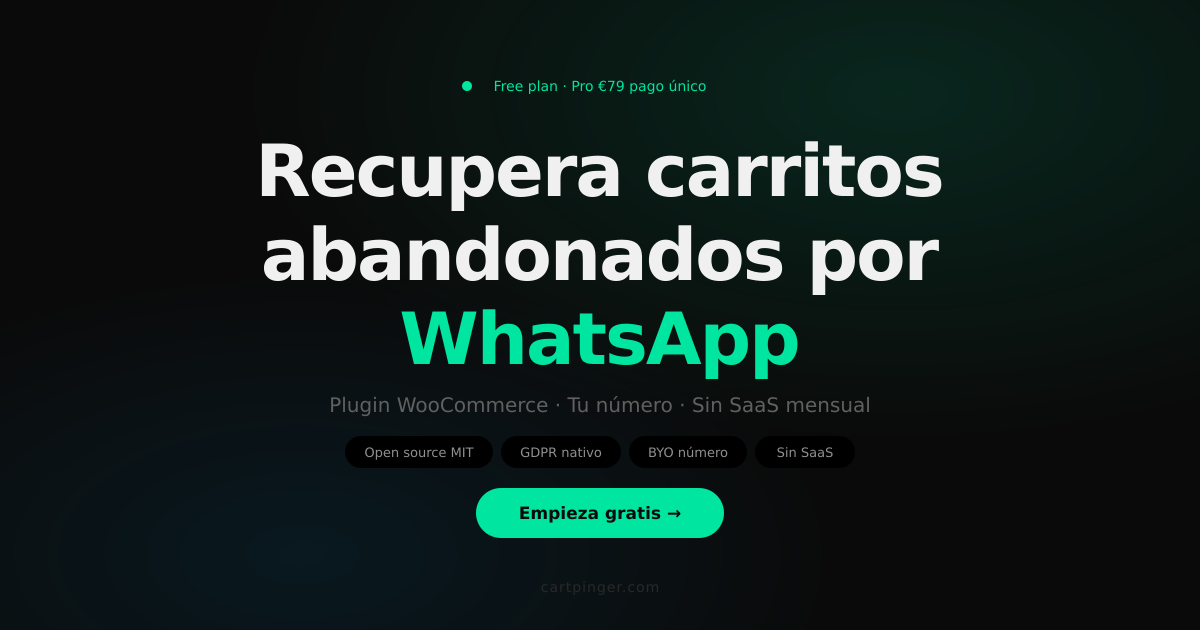
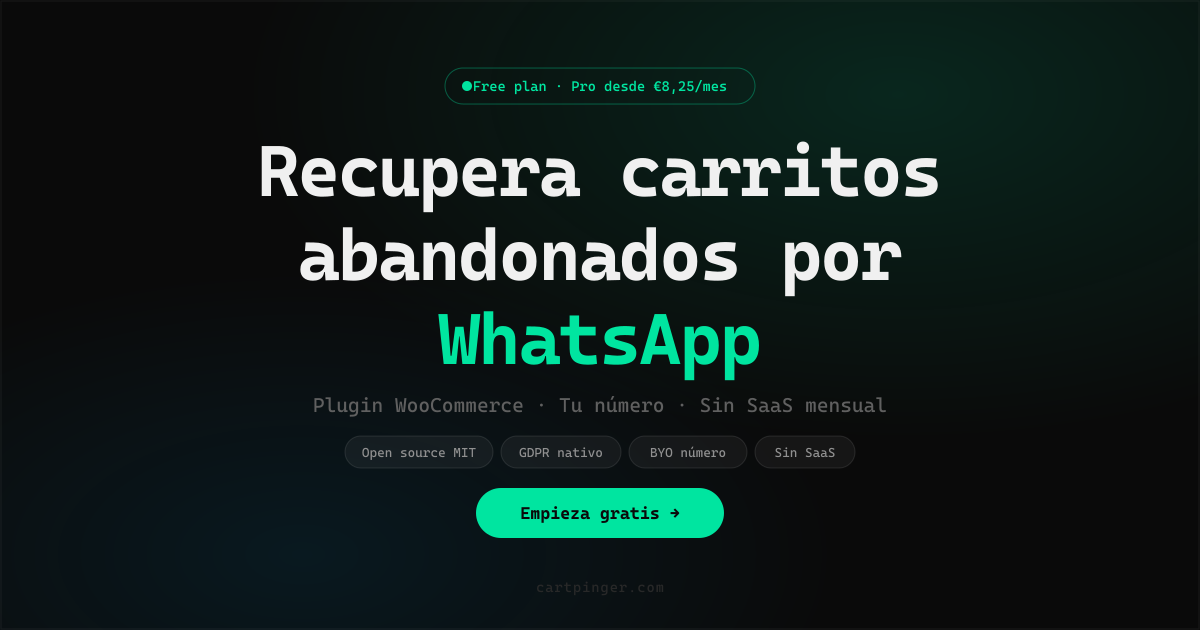
Switch pricing to hybrid subscription model
- Free: 50 recoveries/month, forever
- Pro: €14/month or €99/year (~€8.25/mo annual), no lock-in
- Update all references across JSX components, HTML templates, JSON-LD, terms, OG image
- Terms section 5 rewritten for subscription cancellation + 14-day refund

diff --git a/components-bottom.en.jsx b/components-bottom.en.jsx
@@ -5,7 +5,7 @@ const Icon3 = window.WCTop?.Icon;
 /* ---------------- Comparison ---------------- */
 const CMP_ROWS = [
   { f: "Price",
-    wc: { v: "Free · Pro €79", tip: "Free forever up to 50 recoveries/month. Pro €79 one-time: no limit + sequences, dynamic coupons, CSV, priority support." },
+    wc: { v: "Free · Pro from €8.25/mo", tip: "Free forever up to 50 recoveries/month. Pro €14/mo or €99/year (~€8.25/mo): no limit + sequences, dynamic coupons, CSV, priority support." },
     rt: { v: "$14/mo",  tip: "≈ €156/year recurring." },
     ai: { v: "$25/mo",  tip: "≈ €280/year recurring, standard plan." },
     nf: { v: "Free",    tip: "Limited plan with Notiqoo branding in messages." },
@@ -151,7 +151,7 @@ function Pricing() {
       <div className="container">
         <div className="section-hed reveal">
           <h2 className="h2">Start free. Upgrade whenever you want.</h2>
-          <p className="lede">Free forever up to 50 recoveries/month. Pro €79 one-time: no limit + advanced sequences and automatic coupons.</p>
+          <p className="lede">Free forever up to 50 recoveries/month. Pro from €8.25/mo (annual) or €14/mo: no limit + advanced sequences and automatic coupons.</p>
         </div>
 
         <div className="pricing-grid reveal" data-delay="60">
@@ -193,8 +193,8 @@ function Pricing() {
               </span>
               <span className="chip chip-pro">Pro</span>
             </div>
-            <div className="price-num">€79</div>
-            <div className="price-sub">one-time · no renewal · no limit</div>
+            <div className="price-num">€99<span style={{fontSize:18,fontWeight:500,opacity:.7}}>/year</span></div>
+            <div className="price-sub">or €14/mo · no lock-in · no limit</div>
 
             <ul className="price-list">
               <li><Icon3.Check className="ch" width="16" height="16"/> Everything in Free</li>
@@ -202,13 +202,13 @@ function Pricing() {
               <li><Icon3.Check className="ch" width="16" height="16"/> Automatic dynamic coupons (10% · single-use · 48h validity)</li>
               <li><Icon3.Check className="ch" width="16" height="16"/> CSV export of all recoveries</li>
               <li><Icon3.Check className="ch" width="16" height="16"/> Priority email support</li>
-              <li><Icon3.Check className="ch" width="16" height="16"/> 1 year guaranteed updates</li>
+              <li><Icon3.Check className="ch" width="16" height="16"/> Updates included while subscription is active</li>
             </ul>
 
             <div style={{ marginTop: 8 }}>
               <WaitlistForm cta="Request Beta Pro Access"/>
               <p className="micro" style={{ marginTop: 10 }}>
-                Limited to the first 50 stores. One-time payment at launch — not before.
+                Limited to the first 50 stores. Price locked for early access.
               </p>
             </div>
           </div>
@@ -297,7 +297,7 @@ const FAQS = [
   { q: "How much does Meta charge per message?",
     a: "€0 to us per message. You pay Meta at their official pricing. In the US, an abandoned cart message (marketing category) costs approximately $0.025. The first 1,000 messages per month are free." },
   { q: "Is it really open source?",
-    a: "Yes, MIT License. The code is free and public from day 1 — you can download it, audit it, and use it without paying anything. The Pro plan (€79 one-time) is not for the code license — it removes the 50 recoveries/month limit and unlocks advanced features: multi-message sequences, dynamic coupons, CSV export, and priority support." },
+    a: "Yes, MIT License. The code is free and public from day 1 — you can download it, audit it, and use it without paying anything. The Pro plan (€14/mo or €99/year) is not for the code license — it removes the 50 recoveries/month limit and unlocks advanced features: multi-message sequences, dynamic coupons, CSV export, and priority support." },
   { q: "Does the plugin store customer data on its servers?",
     a: "No. CartPinger has no servers of its own. It runs entirely on your WordPress. Your customers' data (phone, cart, recovery token) is stored in your local MySQL database. We only provide the code." },
   { q: "Does it work with block-based checkout?",
@@ -336,13 +336,13 @@ function FinalCTA() {
     <section className="final" id="cta">
       <div className="container">
         <h2 className="h1 reveal">Start free. Upgrade whenever you want.</h2>
-        <p className="lede reveal" data-delay="100">Free forever up to 50 recoveries/month. Pro €79 one-time: no limit, sequences and automatic coupons. Available Q3 2026.</p>
+        <p className="lede reveal" data-delay="100">Free forever up to 50 recoveries/month. Pro €14/mo or €99/year: no limit, sequences and automatic coupons. Available Q3 2026.</p>
         <div className="reveal" data-delay="200" style={{ display: "flex", justifyContent: "center", marginTop: 14 }}>
           <WaitlistForm size="lg" cta="Join the Beta"/>
         </div>
         <div className="micro-row reveal" data-delay="400">
           <span><Icon3.Check className="tick" width="13" height="13" style={{ display: "inline", verticalAlign: -2 }}/> Free forever · no card</span>
-          <span><Icon3.Check className="tick" width="13" height="13" style={{ display: "inline", verticalAlign: -2 }}/> Pro €79 one-time · no SaaS</span>
+          <span><Icon3.Check className="tick" width="13" height="13" style={{ display: "inline", verticalAlign: -2 }}/> Pro €14/mo or €99/year · cancel anytime</span>
           <span><Icon3.Check className="tick" width="13" height="13" style={{ display: "inline", verticalAlign: -2 }}/> One email when it launches</span>
         </div>
       </div>
@@ -361,7 +361,7 @@ function Footer() {
               <span className="brand-mark"><Icon3.Whatsapp style={{ color: "#04220f" }}/></span>
               <span>CartPinger</span>
             </a>
-            <div>WooCommerce plugin for WhatsApp Cloud API. Recover abandoned carts. One-time payment, no SaaS.</div>
+            <div>WooCommerce plugin for WhatsApp Cloud API. Recover abandoned carts. Your own number, your own data.</div>
           </div>
           <div className="foot-col">
             <h5>Product</h5>

diff --git a/components-bottom.jsx b/components-bottom.jsx
@@ -5,7 +5,7 @@ const Icon3 = window.WCTop?.Icon;
 /* ---------------- Comparison ---------------- */
 const CMP_ROWS = [
   { f: "Precio",
-    wc: { v: "Gratis · Pro €79", tip: "Free para siempre hasta 50 recuperaciones/mes. Pro €79 pago único: sin límite + secuencias, cupones dinámicos, CSV y soporte prioritario." },
+    wc: { v: "Gratis · Pro desde €8,25/mes", tip: "Free para siempre hasta 50 recuperaciones/mes. Pro €14/mes o €99/año (~€8,25/mes): sin límite + secuencias, cupones dinámicos, CSV y soporte prioritario." },
     rt: { v: "$14/mes",  tip: "≈ €156/año recurrente." },
     ai: { v: "$25/mes",  tip: "≈ €280/año recurrente, plan estándar." },
     nf: { v: "Gratis",   tip: "Plan limitado con marca Notiqoo en mensajes." },
@@ -151,7 +151,7 @@ function Pricing() {
       <div className="container">
         <div className="section-hed reveal">
           <h2 className="h2">Empieza gratis. Actualiza cuando quieras.</h2>
-          <p className="lede">Free para siempre hasta 50 recuperaciones/mes. Pro €79 pago único: sin límite + secuencias avanzadas y cupones automáticos.</p>
+          <p className="lede">Free para siempre hasta 50 recuperaciones/mes. Pro desde €8,25/mes (anual) o €14/mes: sin límite + secuencias avanzadas y cupones automáticos.</p>
         </div>
 
         <div className="pricing-grid reveal" data-delay="60">
@@ -193,8 +193,8 @@ function Pricing() {
               </span>
               <span className="chip chip-pro">Pro</span>
             </div>
-            <div className="price-num">€79</div>
-            <div className="price-sub">pago único · sin renovación · sin límite</div>
+            <div className="price-num">€99<span style={{fontSize:18,fontWeight:500,opacity:.7}}>/año</span></div>
+            <div className="price-sub">o €14/mes · sin permanencia · sin límite</div>
 
             <ul className="price-list">
               <li><Icon3.Check className="ch" width="16" height="16"/> Todo lo de Free</li>
@@ -202,13 +202,13 @@ function Pricing() {
               <li><Icon3.Check className="ch" width="16" height="16"/> Cupones dinámicos automáticos (10% · 1 uso · 48h validez)</li>
               <li><Icon3.Check className="ch" width="16" height="16"/> Exportación CSV de todas las recuperaciones</li>
               <li><Icon3.Check className="ch" width="16" height="16"/> Soporte prioritario por email</li>
-              <li><Icon3.Check className="ch" width="16" height="16"/> Updates garantizados 1 año</li>
+              <li><Icon3.Check className="ch" width="16" height="16"/> Updates incluidos mientras esté activa</li>
             </ul>
 
             <div style={{ marginTop: 8 }}>
               <WaitlistForm cta="Solicitar acceso Beta Pro"/>
               <p className="micro" style={{ marginTop: 10 }}>
-                Plazas limitadas a las primeras 50 tiendas. Pago único al lanzar — no antes.
+                Plazas limitadas a las primeras 50 tiendas. Precio congelado para early access.
               </p>
             </div>
           </div>
@@ -297,7 +297,7 @@ const FAQS = [
   { q: "¿Cuánto pago a Meta por mensaje?",
     a: "0€ a nosotros por mensajes. A Meta pagas según su pricing oficial. En España, un mensaje de carrito abandonado (categoría marketing) cuesta aproximadamente €0,08. Los primeros 1.000 mensajes al mes son gratis." },
   { q: "¿Es open source de verdad?",
-    a: "Sí, MIT License. El código es libre y público desde día 1 — puedes descargarlo, auditarlo y usarlo sin pagar nada. El plan Pro (€79 pago único) no es por la licencia del código, sino por quitar el límite mensual de 50 recuperaciones y añadir funciones avanzadas: secuencia multi-mensaje, cupones dinámicos, CSV y soporte prioritario." },
+    a: "Sí, MIT License. El código es libre y público desde día 1 — puedes descargarlo, auditarlo y usarlo sin pagar nada. El plan Pro (€14/mes o €99/año) no es por la licencia del código, sino por quitar el límite mensual de 50 recuperaciones y añadir funciones avanzadas: secuencia multi-mensaje, cupones dinámicos, CSV y soporte prioritario." },
   { q: "¿El plugin almacena datos de clientes en sus servidores?",
     a: "No. CartPinger no tiene servidores propios. Corre íntegramente en tu WordPress. Los datos de tus clientes (teléfono, carrito, token de recuperación) se almacenan en tu base de datos MySQL local. Nosotros solo proveemos el código." },
   { q: "¿Funciona con block-based checkout?",
@@ -336,13 +336,13 @@ function FinalCTA() {
     <section className="final" id="cta">
       <div className="container">
         <h2 className="h1 reveal">Empieza gratis. Actualiza cuando quieras.</h2>
-        <p className="lede reveal" data-delay="100">Free para siempre hasta 50 recuperaciones/mes. Pro €79 pago único: sin límite, secuencias y cupones automáticos. Disponible Q3 2026.</p>
+        <p className="lede reveal" data-delay="100">Free para siempre hasta 50 recuperaciones/mes. Pro €14/mes o €99/año: sin límite, secuencias y cupones automáticos. Disponible Q3 2026.</p>
         <div className="reveal" data-delay="200" style={{ display: "flex", justifyContent: "center", marginTop: 14 }}>
           <WaitlistForm size="lg" cta="Apuntarme a la Beta"/>
         </div>
         <div className="micro-row reveal" data-delay="400">
           <span><Icon3.Check className="tick" width="13" height="13" style={{ display: "inline", verticalAlign: -2 }}/> Free para siempre · sin tarjeta</span>
-          <span><Icon3.Check className="tick" width="13" height="13" style={{ display: "inline", verticalAlign: -2 }}/> Pro €79 pago único · sin SaaS</span>
+          <span><Icon3.Check className="tick" width="13" height="13" style={{ display: "inline", verticalAlign: -2 }}/> Pro €14/mes o €99/año · cancela cuando quieras</span>
           <span><Icon3.Check className="tick" width="13" height="13" style={{ display: "inline", verticalAlign: -2 }}/> Un solo email cuando lance</span>
         </div>
       </div>
@@ -361,7 +361,7 @@ function Footer() {
               <span className="brand-mark"><Icon3.Whatsapp style={{ color: "#04220f" }}/></span>
               <span>CartPinger</span>
             </a>
-            <div>Plugin de WooCommerce para WhatsApp Cloud API. Recupera carritos abandonados. Pago único, sin SaaS.</div>
+            <div>Plugin de WooCommerce para WhatsApp Cloud API. Recupera carritos abandonados. Tu propio número, tu propia data.</div>
           </div>
           <div className="foot-col">
             <h5>Producto</h5>

diff --git a/terms.html b/terms.html
@@ -46,7 +46,7 @@
 
   <h2>1. El plugin y su licencia</h2>
   <p>CartPinger es un plugin de WordPress distribuido bajo la <strong>licencia MIT</strong>. Esto significa que el código fuente es libre: puedes usarlo, modificarlo y distribuirlo. El texto completo de la licencia MIT está disponible en el <a href="https://github.com/tfreire988/whatscom/blob/main/LICENSE" target="_blank" rel="noopener">repositorio de GitHub</a>.</p>
-  <p>El pago no es por la licencia del código (que es gratuita y abierta), sino por el <strong>servicio de distribución, actualizaciones y soporte</strong> que CartPinger ofrece como parte del acceso comercial.</p>
+  <p>La suscripción al plan Pro no es por la licencia del código (que es gratuita y abierta), sino por el <strong>servicio de distribución, actualizaciones, funciones avanzadas y soporte</strong> que CartPinger ofrece mientras la suscripción esté activa.</p>
 
   <h2>2. Planes y qué incluye cada uno</h2>
   <div class="highlight">
@@ -54,11 +54,11 @@
     Incluye el plugin completo con todas las funciones core: detección de carritos abandonados, envío automático de 1 mensaje por abandono usando tu propio número de WhatsApp (API de Meta), consentimiento GDPR en checkout, y plantillas en 4 idiomas. Sin límite de tiempo ni de uso. Sin tarjeta de crédito.</p>
   </div>
   <div class="highlight">
-    <p><strong>Plan Pro — €79 pago único</strong><br/>
-    Incluye todo el plan Free más: secuencias de hasta 3 mensajes por abandono, cupones dinámicos en los mensajes, exportación CSV de datos de abandono, y acceso prioritario a nuevas funciones. El pago es único y sin suscripción. Incluye actualizaciones del plan Pro durante <strong>12 meses</strong> desde la fecha de compra y soporte técnico por email y GitHub Issues durante ese período.</p>
+    <p><strong>Plan Pro — €14/mes o €99/año</strong><br/>
+    Incluye todo el plan Free más: secuencias de hasta 3 mensajes por abandono, cupones dinámicos en los mensajes, exportación CSV de datos de abandono, soporte prioritario y acceso prioritario a nuevas funciones. La suscripción se renueva automáticamente (mensual o anual según el plan elegido) hasta que el usuario la cancele. Incluye todas las actualizaciones del plan Pro mientras la suscripción esté activa.</p>
   </div>
-  <p>Transcurridos los 12 meses, el plugin Pro seguirá funcionando en su versión actual indefinidamente. Para continuar recibiendo actualizaciones y soporte prioritario, se ofrecerá una renovación opcional.</p>
-  <p>CartPinger se reserva el derecho de modificar el precio de renovación con un preaviso mínimo de 30 días. Los usuarios con licencia activa siempre recibirán notificación antes de cualquier cambio que les afecte.</p>
+  <p>Si la suscripción se cancela o vence, el plugin volverá automáticamente al plan Free (50 recuperaciones/mes y funciones core). Los datos del usuario se conservan en su base de datos local — CartPinger no almacena ni elimina nada en sus propios servidores.</p>
+  <p>CartPinger se reserva el derecho de modificar los precios con un preaviso mínimo de 30 días por email. Los usuarios con suscripción activa mantendrán su precio actual hasta el siguiente ciclo de renovación tras la notificación.</p>
 
   <h2>3. Lo que CartPinger no garantiza</h2>
   <p>El plugin se proporciona <strong>"tal como está" (as-is)</strong>, sin garantías de ningún tipo, expresas o implícitas. En particular:</p>
@@ -73,10 +73,11 @@
   <p>En ningún caso CartPinger será responsable de daños indirectos, incidentales, especiales, consecuentes o punitivos, incluyendo pero no limitado a: pérdida de beneficios, pérdida de datos, interrupción del negocio o cualquier otro daño comercial, aunque CartPinger haya sido advertido de la posibilidad de tales daños.</p>
   <p>La responsabilidad total de CartPinger frente a un cliente por cualquier causa, independientemente de la forma de acción, se limitará en todo caso al importe pagado por ese cliente en los 12 meses anteriores al evento que dio lugar a la reclamación.</p>
 
-  <h2>5. Política de devoluciones</h2>
+  <h2>5. Cancelación y devoluciones</h2>
   <p>El plan Free no tiene coste, por lo que no aplica política de devolución.</p>
-  <p>Para el plan Pro, CartPinger ofrece una <strong>garantía de devolución de 30 días</strong> desde la fecha de compra. Si el plugin no funciona como se describe y CartPinger no puede resolver el problema en un plazo razonable, reembolsaremos el importe íntegro. Para solicitar una devolución, escribe a <a href="mailto:[email redacted]">[email redacted]</a> con el asunto "Devolución".</p>
-  <p>No se realizan devoluciones pasados 30 días desde la compra ni en casos de incompatibilidad con configuraciones que el cliente haya añadido después de la instalación.</p>
+  <p>El plan Pro puede cancelarse en cualquier momento desde tu cuenta. Tras la cancelación, el acceso Pro continúa hasta el final del período ya facturado (mensual o anual), momento en el cual el plugin pasa automáticamente al plan Free.</p>
+  <p>Adicionalmente, CartPinger ofrece una <strong>garantía de devolución de 14 días</strong> desde el primer pago (mensual o anual) si el plugin no funciona como se describe y CartPinger no puede resolver el problema en un plazo razonable. Para solicitar una devolución, escribe a <a href="mailto:[email redacted]">[email redacted]</a> con el asunto "Devolución".</p>
+  <p>No se realizan devoluciones de renovaciones automáticas pasada la primera compra ni en casos de incompatibilidad con configuraciones que el cliente haya añadido después de la instalación.</p>
 
   <h2>6. Uso aceptable</h2>
   <p>Al usar CartPinger te comprometes a:</p>

diff --git a/components-mid.en.jsx b/components-mid.en.jsx
@@ -8,7 +8,7 @@ function Steps() {
     <section className="section" id="producto">
       <div className="container">
         <div className="section-hed reveal">
-          <h2 className="h2">Three steps. One-time payment. No SaaS.</h2>
+          <h2 className="h2">Three steps. No surprises.</h2>
           <p className="lede">Meta Business onboarding is where other plugins leave you stranded. Not here.</p>
         </div>
         <div className="steps">
@@ -329,7 +329,7 @@ function Calculator() {
   const c = COMPETITORS[competitor];
   const months = HORIZONS[years];
   const compTotal = c.monthly * months * 0.93;
-  const wcTotal = 79;
+  const wcTotal = 99 * parseInt(years);
   const diff = compTotal - wcTotal;
 
   const abandoned = orders * (abandon / 100);
@@ -346,7 +346,7 @@ function Calculator() {
       <div className="container">
         <div className="section-hed reveal">
           <h2 className="h2">Calculate what you save vs. recurring SaaS.</h2>
-          <p className="lede">You pay €79 once. Alternatives charge every month. The difference compounds.</p>
+          <p className="lede">€99/year or €14/mo. Alternatives charge 2–5× more. The difference compounds.</p>
         </div>
 
         <div className="surface calc reveal" data-delay="80">
@@ -388,8 +388,8 @@ function Calculator() {
 
             <div className="calc-out">
               <div className="out-row">
-                <span className="l">CartPinger Pro · one-time</span>
-                <span className="v">€79</span>
+                <span className="l">CartPinger Pro · €99/year</span>
+                <span className="v">{fmtEur(wcTotal)}</span>
               </div>
               <div className="out-row">
                 <span className="l">{c.name} · {years} {years === "1" ? "year" : "years"}</span>
@@ -399,14 +399,14 @@ function Calculator() {
               <div className="diff">
                 <div className="l">Your savings over {years} {years === "1" ? "year" : "years"}</div>
                 <div className="v">{fmtEur(diff)}</div>
-                <div className="sub">less with a one-time license</div>
+                <div className="sub">less choosing CartPinger annual</div>
               </div>
 
               <div className="calc-bars">
                 <div className="bar wa">
                   <div className="label">CartPinger Pro</div>
                   <div className="track"><div className="fill" style={{ width: wcW + "%" }}/></div>
-                  <div className="val">€79</div>
+                  <div className="val">{fmtEur(wcTotal)}</div>
                 </div>
                 <div className="bar comp">
                   <div className="label">{c.name}</div>

diff --git a/components-mid.jsx b/components-mid.jsx
@@ -8,7 +8,7 @@ function Steps() {
     <section className="section" id="producto">
       <div className="container">
         <div className="section-hed reveal">
-          <h2 className="h2">Tres pasos. Pago único. Sin SaaS.</h2>
+          <h2 className="h2">Tres pasos. Sin sorpresas.</h2>
           <p className="lede">El onboarding de Meta Business es donde otros plugins te abandonan. Aquí no.</p>
         </div>
         <div className="steps">
@@ -329,7 +329,7 @@ function Calculator() {
   const c = COMPETITORS[competitor];
   const months = HORIZONS[years];
   const compTotal = c.monthly * months * 0.93;
-  const wcTotal = 79;
+  const wcTotal = 99 * parseInt(years);
   const diff = compTotal - wcTotal;
 
   const abandoned = orders * (abandon / 100);
@@ -346,7 +346,7 @@ function Calculator() {
       <div className="container">
         <div className="section-hed reveal">
           <h2 className="h2">Calcula lo que ahorras vs SaaS recurrente.</h2>
-          <p className="lede">Pagas €79 una vez. Las alternativas cobran cada mes. La diferencia compone.</p>
+          <p className="lede">€99/año o €14/mes. Las alternativas cobran 2–5× más. La diferencia compone.</p>
         </div>
 
         <div className="surface calc reveal" data-delay="80">
@@ -388,8 +388,8 @@ function Calculator() {
 
             <div className="calc-out">
               <div className="out-row">
-                <span className="l">CartPinger Pro · pago único</span>
-                <span className="v">€79</span>
+                <span className="l">CartPinger Pro · €99/año</span>
+                <span className="v">{fmtEur(wcTotal)}</span>
               </div>
               <div className="out-row">
                 <span className="l">{c.name} · {years} {years === "1" ? "año" : "años"}</span>
@@ -399,14 +399,14 @@ function Calculator() {
               <div className="diff">
                 <div className="l">Tu diferencia a {years} {years === "1" ? "año" : "años"}</div>
                 <div className="v">{fmtEur(diff)}</div>
-                <div className="sub">menos pagando licencia única</div>
+                <div className="sub">menos eligiendo CartPinger anual</div>
               </div>
 
               <div className="calc-bars">
                 <div className="bar wa">
                   <div className="label">CartPinger Pro</div>
                   <div className="track"><div className="fill" style={{ width: wcW + "%" }}/></div>
-                  <div className="val">€79</div>
+                  <div className="val">{fmtEur(wcTotal)}</div>
                 </div>
                 <div className="bar comp">
                   <div className="label">{c.name}</div>

diff --git a/WhatsCom Landing.html b/WhatsCom Landing.html
@@ -6,7 +6,7 @@
 
   <!-- Primary SEO -->
   <title>CartPinger — Plugin WooCommerce para recuperar carritos abandonados por WhatsApp</title>
-  <meta name="description" content="Plugin WooCommerce que envía un WhatsApp desde tu propio número 1 hora después del abandono. Plan Free gratis hasta 50 recuperaciones/mes. Pro €79 pago único. GDPR nativo, open source MIT, sin SaaS mensual."/>
+  <meta name="description" content="Plugin WooCommerce que envía un WhatsApp desde tu propio número 1 hora después del abandono. Plan Free gratis hasta 50 recuperaciones/mes. Pro desde €8,25/mes (€99/año) o €14/mes. GDPR nativo, open source MIT."/>
   <meta name="keywords" content="WooCommerce carrito abandonado WhatsApp, WhatsApp Cloud API plugin WooCommerce, recuperar carritos abandonados, GDPR checkout WooCommerce, CartPinger, WhatsApp Business WooCommerce, plugin PHP open source, abandoned cart recovery WhatsApp"/>
   <meta name="author" content="CartPinger"/>
   <meta name="robots" content="index, follow"/>
@@ -53,11 +53,11 @@
     "license": "https://opensource.org/licenses/MIT",
     "offers": {
       "@type": "Offer",
-      "price": "79",
+      "price": "99",
       "priceCurrency": "EUR",
       "priceValidUntil": "2026-12-31",
       "availability": "https://schema.org/PreOrder",
-      "description": "Plan Pro — pago único €79. Sin límite de recuperaciones + secuencias de mensajes, cupones dinámicos y exportación CSV. Plan Free gratuito hasta 50 recuperaciones/mes."
+      "description": "Plan Pro — €14/mes o €99/año. Sin límite de recuperaciones + secuencias de mensajes, cupones dinámicos y exportación CSV. Plan Free gratuito hasta 50 recuperaciones/mes."
     },
     "author": {
       "@type": "Organization",
@@ -83,7 +83,7 @@
         "name": "¿Cuándo está disponible CartPinger?",
         "acceptedAnswer": {
           "@type": "Answer",
-          "text": "Lanzamiento público Q3 2026. El plan Free estará disponible sin coste desde el primer día. El plan Pro (€79 pago único) tendrá plazas limitadas en el lanzamiento."
+          "text": "Lanzamiento público Q3 2026. El plan Free estará disponible sin coste desde el primer día. El plan Pro (€14/mes o €99/año) tendrá plazas limitadas para early access con precio congelado."
         }
       },
       {
@@ -115,7 +115,7 @@
         "name": "¿Cuánto cuesta CartPinger?",
         "acceptedAnswer": {
           "@type": "Answer",
-          "text": "CartPinger tiene un plan Free gratuito para siempre (hasta 50 recuperaciones/mes). El plan Pro cuesta €79 pago único, sin límite de recuperaciones, e incluye secuencias de hasta 3 mensajes, cupones dinámicos y exportación CSV."
+          "text": "CartPinger tiene un plan Free gratuito para siempre (hasta 50 recuperaciones/mes). El plan Pro cuesta €14/mes o €99/año, sin permanencia ni límite de recuperaciones, e incluye secuencias de hasta 3 mensajes, cupones dinámicos y exportación CSV."
         }
       }
     ]

diff --git a/CartPinger EN Landing.html b/CartPinger EN Landing.html
@@ -6,7 +6,7 @@
 
   <!-- Primary SEO -->
   <title>CartPinger — WooCommerce Plugin to Recover Abandoned Carts via WhatsApp</title>
-  <meta name="description" content="WooCommerce plugin that sends a WhatsApp from your own number 1 hour after cart abandonment. Free plan up to 50 recoveries/month. Pro €79 one-time. Native GDPR, open source MIT, no monthly SaaS."/>
+  <meta name="description" content="WooCommerce plugin that sends a WhatsApp from your own number 1 hour after cart abandonment. Free plan up to 50 recoveries/month. Pro from €8.25/mo (€99/year) or €14/mo. Native GDPR, open source MIT."/>
   <meta name="keywords" content="WooCommerce abandoned cart WhatsApp, WhatsApp Cloud API WooCommerce plugin, recover abandoned carts, GDPR checkout WooCommerce, CartPinger, WhatsApp Business WooCommerce, open source PHP plugin, abandoned cart recovery WhatsApp"/>
   <meta name="author" content="CartPinger"/>
   <meta name="robots" content="index, follow"/>
@@ -53,11 +53,11 @@
     "license": "https://opensource.org/licenses/MIT",
     "offers": {
       "@type": "Offer",
-      "price": "79",
+      "price": "99",
       "priceCurrency": "EUR",
       "priceValidUntil": "2026-12-31",
       "availability": "https://schema.org/PreOrder",
-      "description": "Pro plan — one-time €79. No recovery limit + message sequences, dynamic coupons and CSV export. Free plan up to 50 recoveries/month at no cost."
+      "description": "Pro plan — €14/month or €99/year. No recovery limit + message sequences, dynamic coupons and CSV export. Free plan up to 50 recoveries/month at no cost."
     },
     "author": {
       "@type": "Organization",
@@ -115,7 +115,7 @@
         "name": "How much does CartPinger cost?",
         "acceptedAnswer": {
           "@type": "Answer",
-          "text": "CartPinger has a free forever plan (up to 50 recoveries/month). The Pro plan is a one-time €79 payment with no recovery limit, sequences of up to 3 messages, dynamic coupons, and CSV export."
+          "text": "CartPinger has a free forever plan (up to 50 recoveries/month). The Pro plan is €14/month or €99/year with no lock-in, no recovery limit, sequences of up to 3 messages, dynamic coupons, and CSV export."
         }
       }
     ]